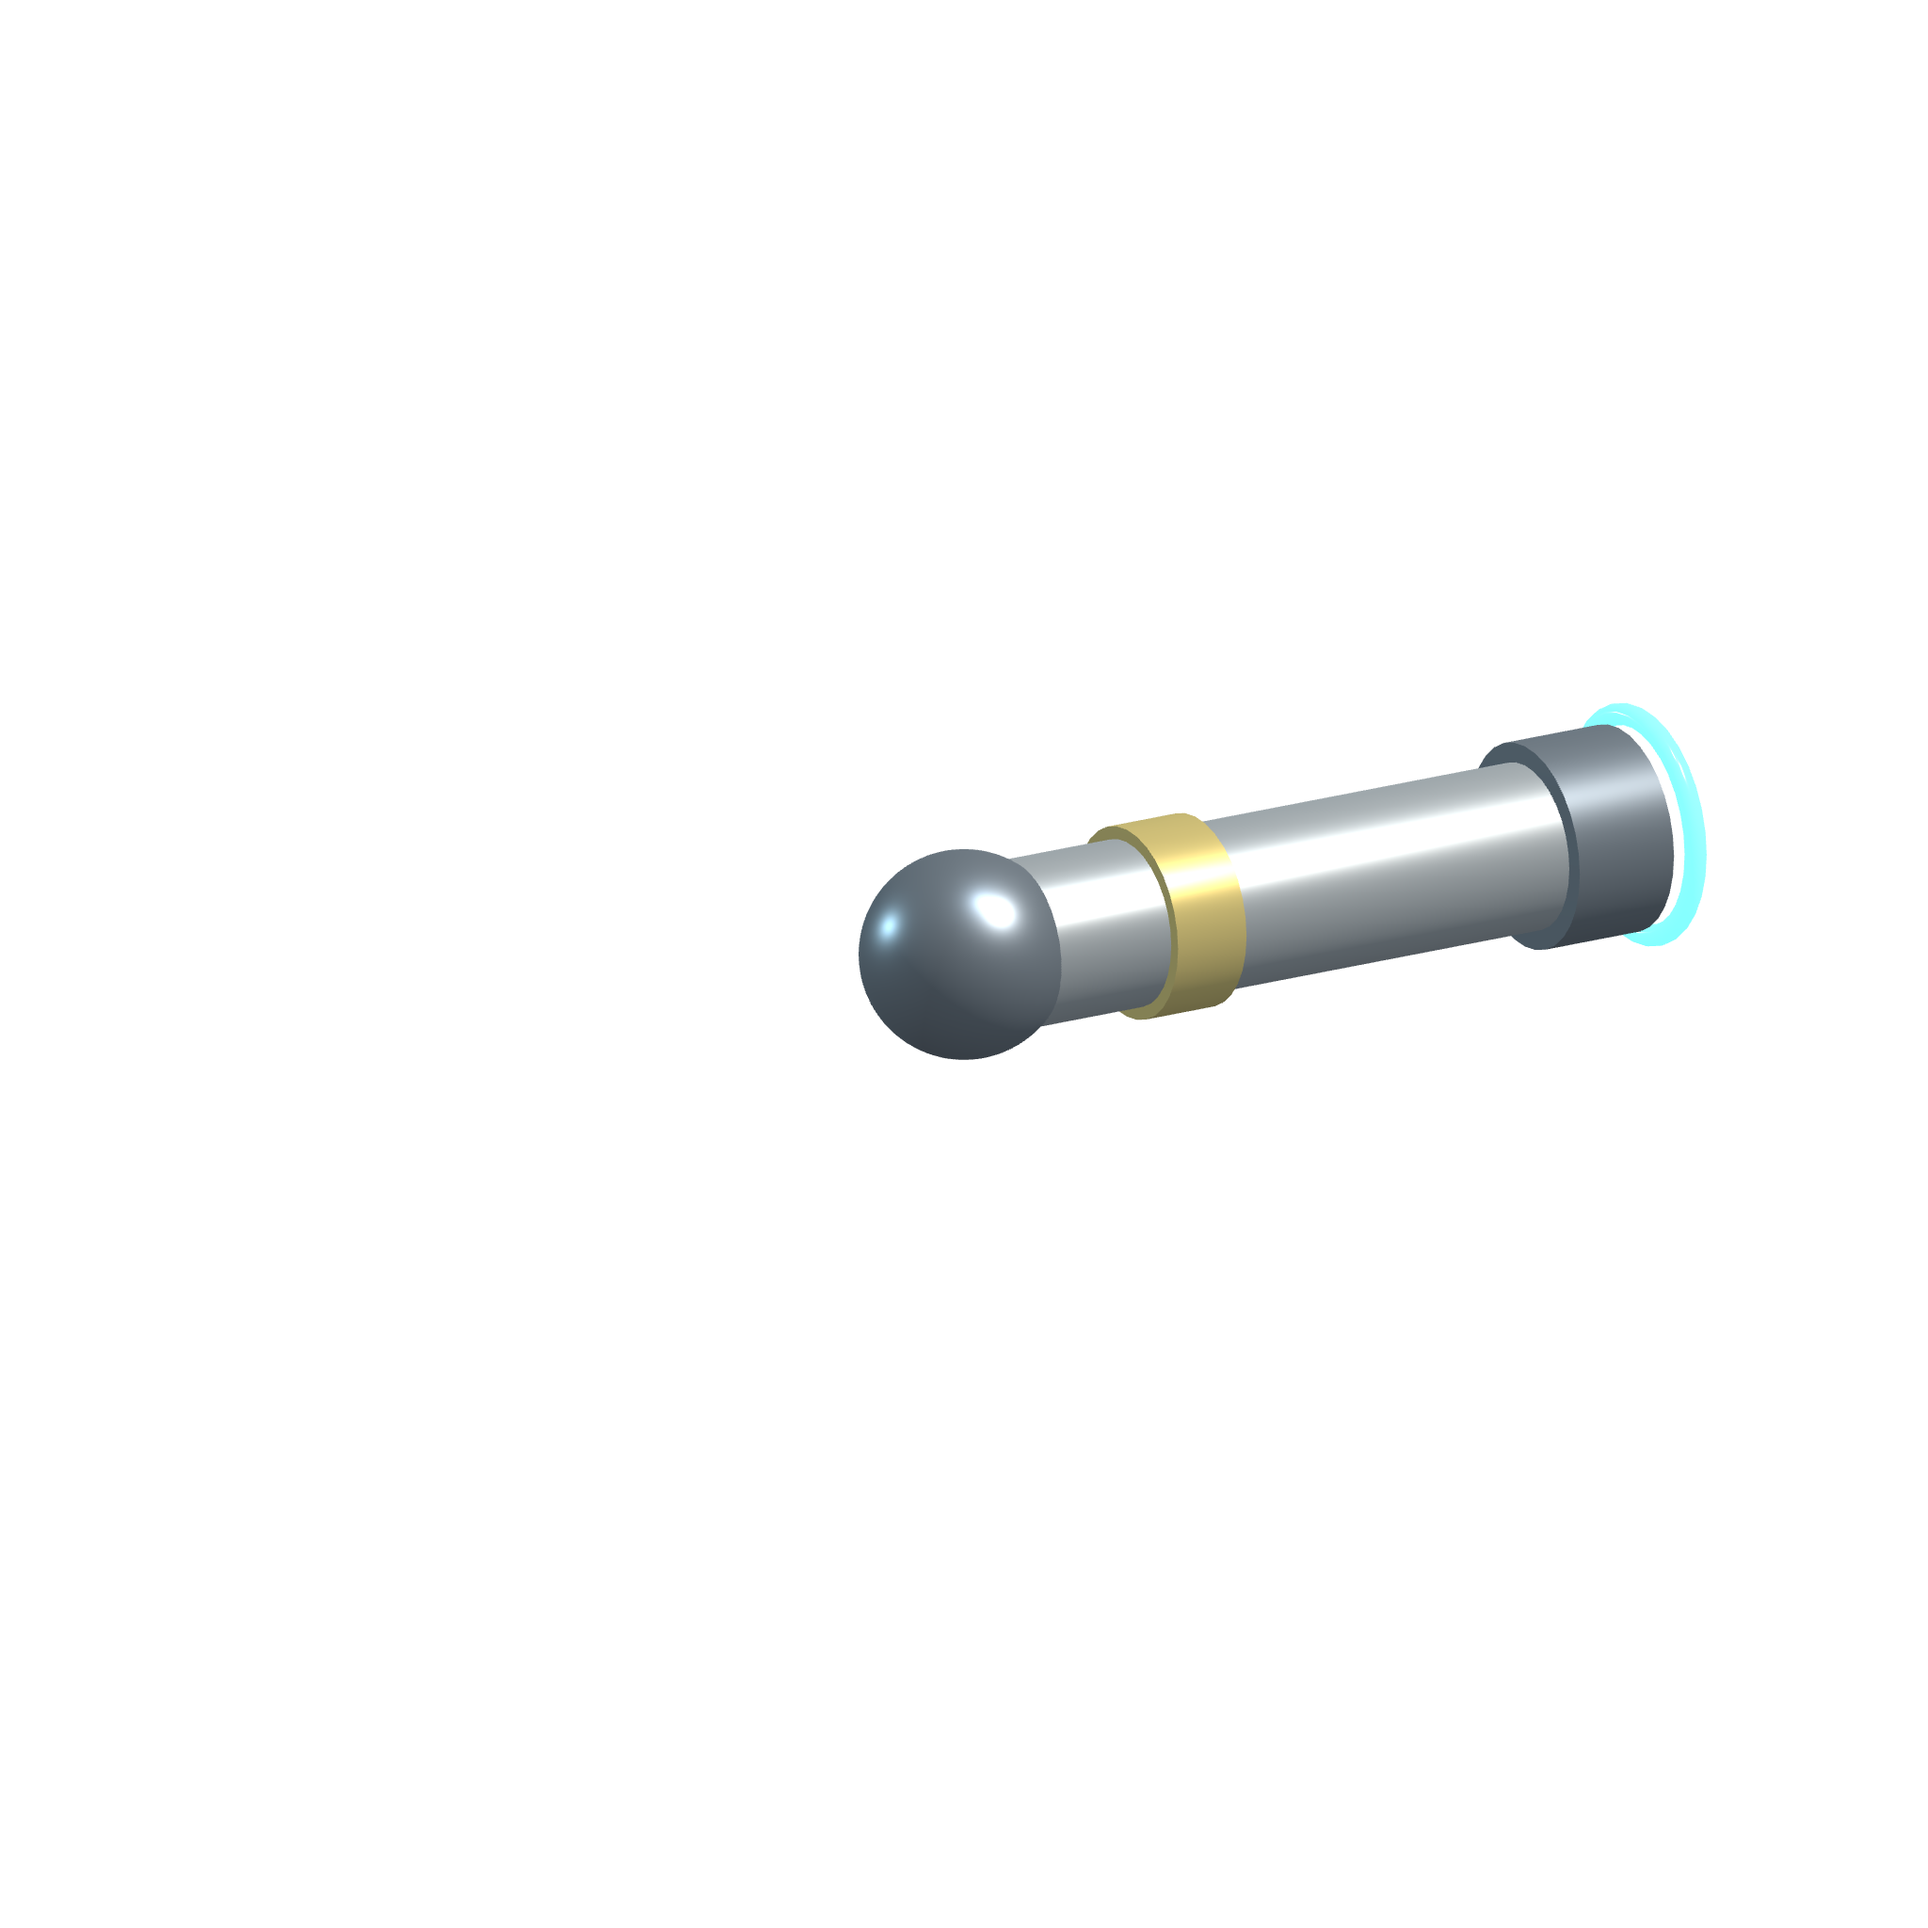
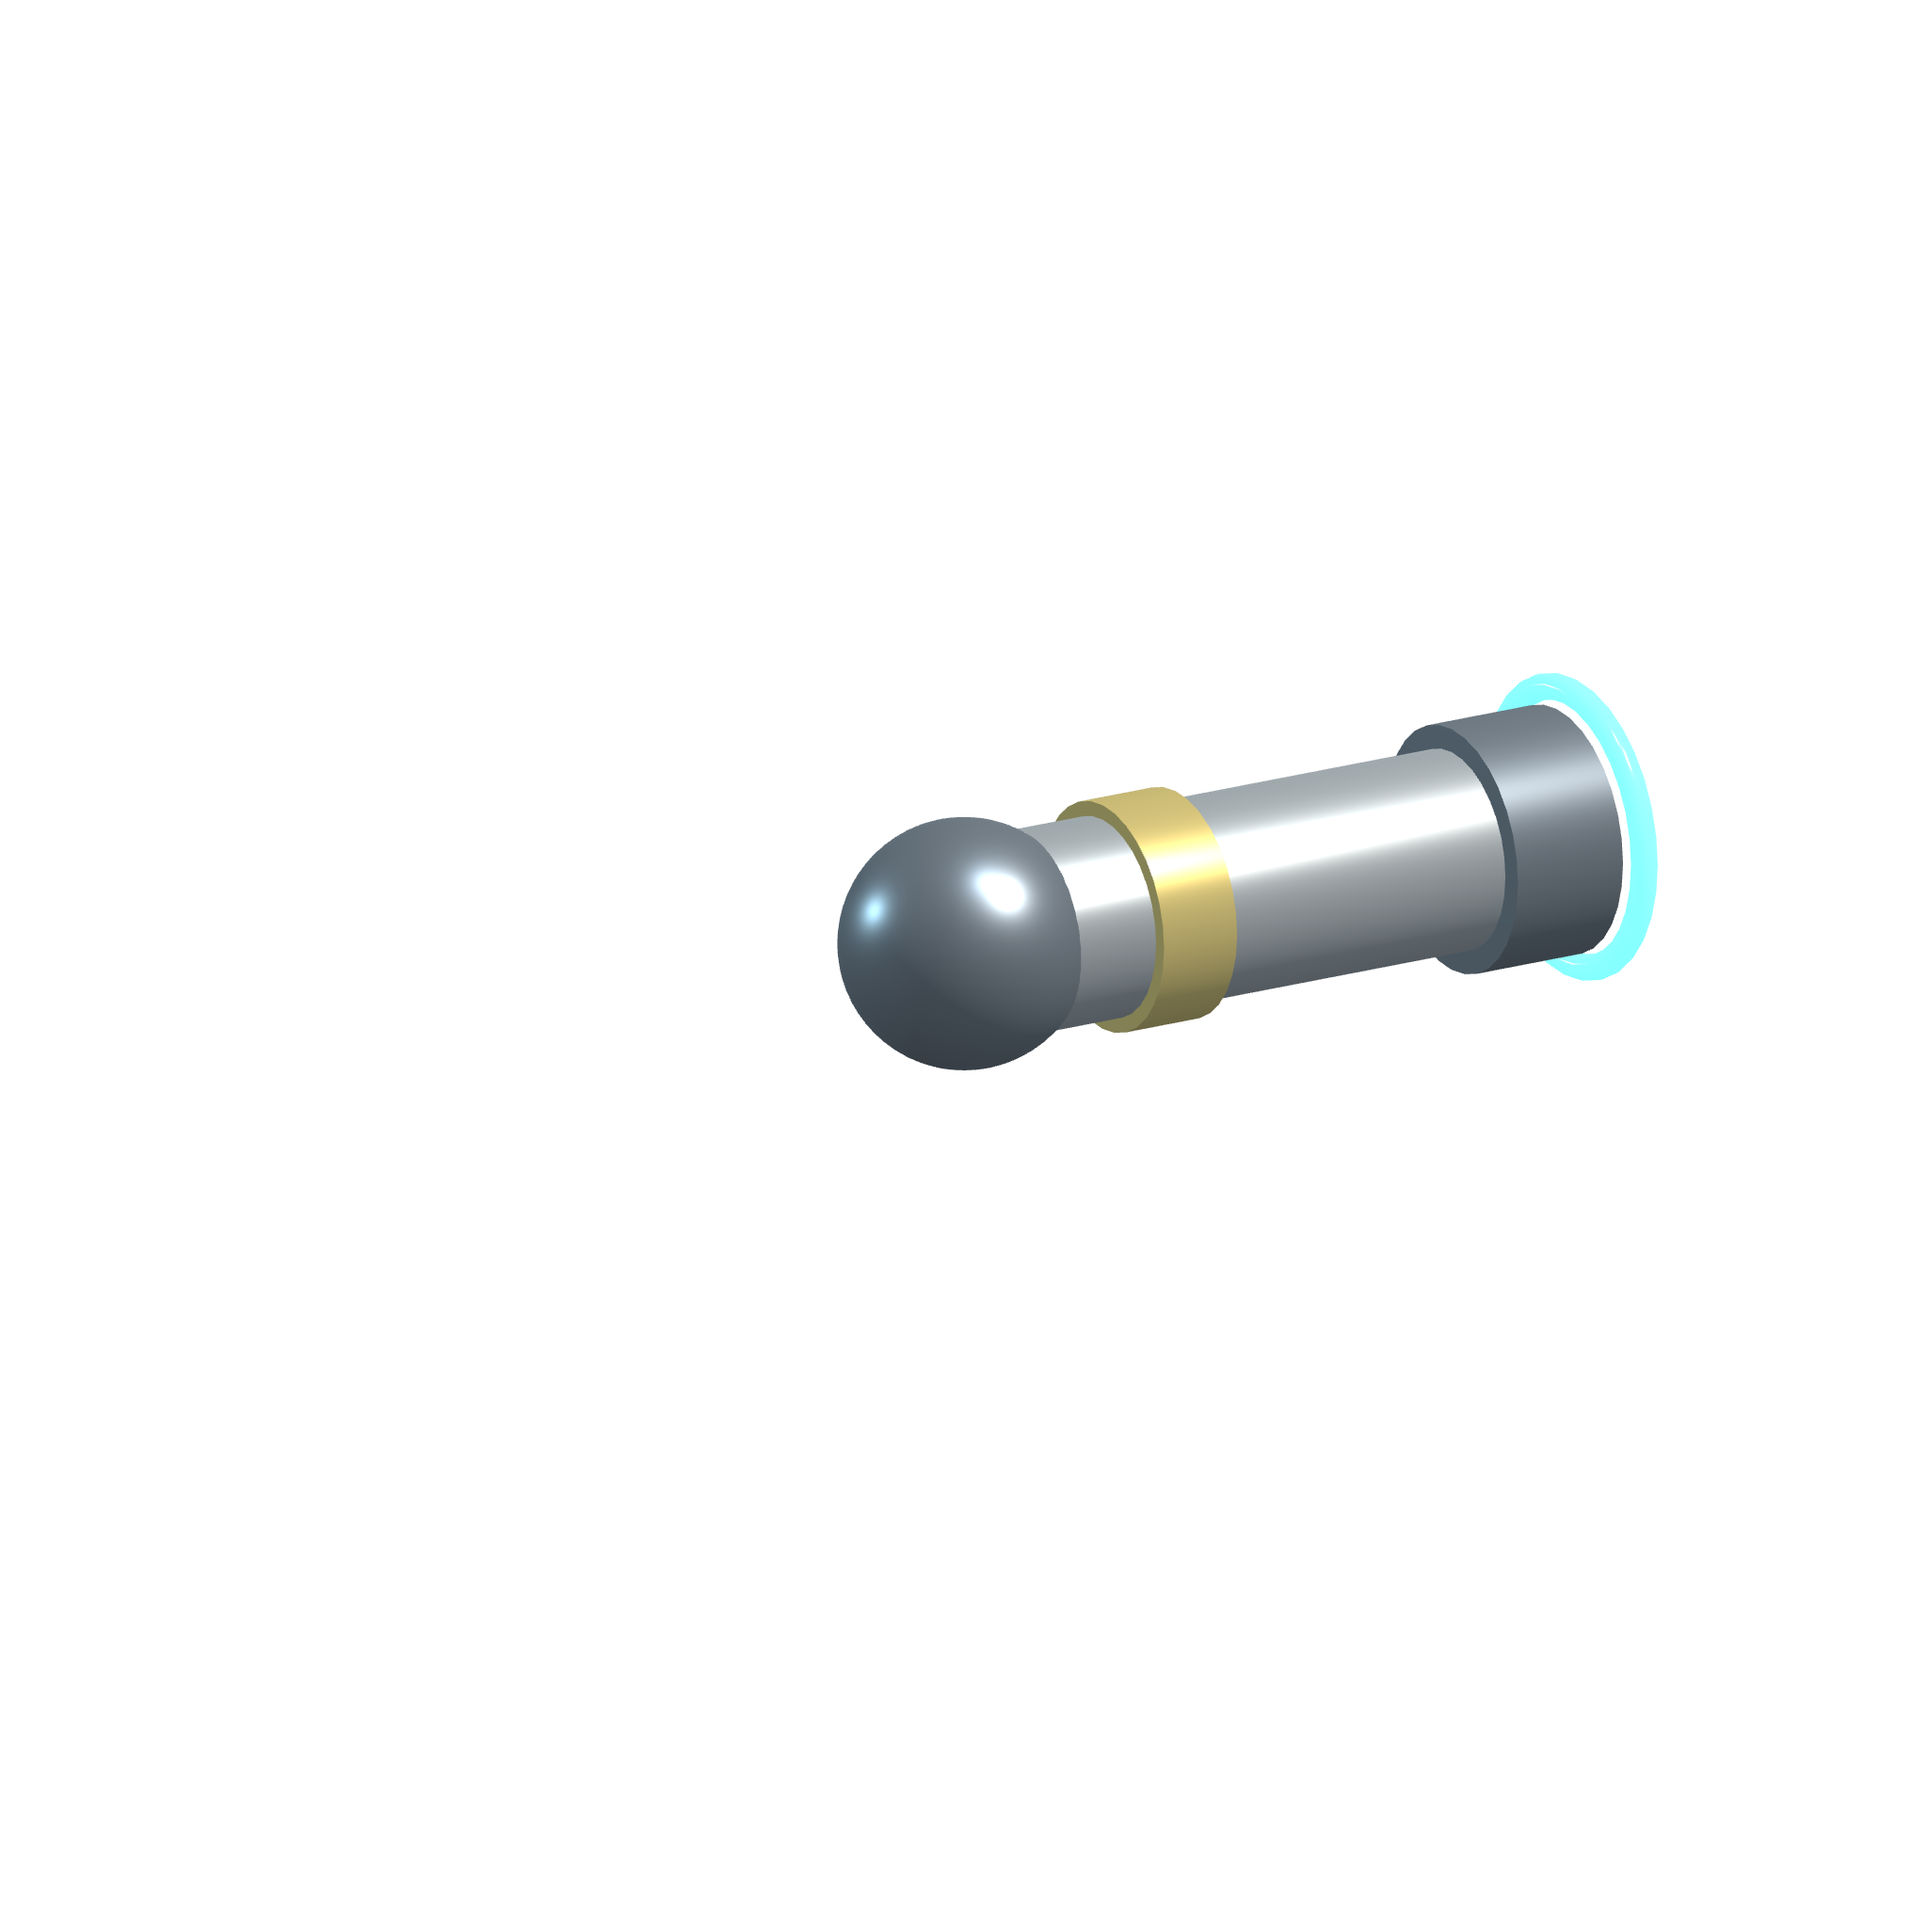
fix(turbo-pulse): donne du volume au canon 3D (modele et echelle)
Le premier rendu Babylon (socle/piston fins, echelle 0.125) lisait comme
timide une fois en jeu. Tube, socle, dome et moyeu sont nettement epaissis
dans le modele source (pas juste mis a l'echelle globalement), et
CANNON_IMAGE_SCALE est releve pour une vraie presence a l'ecran. Pivot et
angle de repos verifies inchanges (projection orthographique, invariante a
la position/l'echelle).

Changed region(s): [[0.4375, 0.3438, 0.9062, 0.5625]]

diff --git a/frontend/src/games/turbo-pulse/TurboPulseGame.ts b/frontend/src/games/turbo-pulse/TurboPulseGame.ts
@@ -47,20 +47,22 @@ const SHOT_SPEED = 620;
 // d'articulation du bras) tombe donc au même endroit dans les deux images,
 // mesuré une fois pour toutes sur les rendus exportés.
 const CANNON_PIVOT_ORIGIN_X = 0.5;
-const CANNON_PIVOT_ORIGIN_Y = 0.4951;
+const CANNON_PIVOT_ORIGIN_Y = 0.4956;
 // La caméra 3/4 fait reposer le tube à ~-10.9° (et non à l'horizontale) dans
 // l'image non tournée : sans cette correction, l'orientation visuelle du
 // canon dérive de la vraie trajectoire du tir (calculée séparément à partir
 // de aimAngle). Mesuré par projection de deux points le long de l'axe local
-// +X du bras (pivot et pivot+2 unités) avec la même caméra que l'export.
+// +X du bras (pivot et pivot+2 unités) avec la même caméra que l'export —
+// invariant à la position/l'échelle du pivot (projection orthographique),
+// donc inchangé par l'épaississement du modèle ci-dessous.
 const CANNON_ARM_RESTING_ANGLE = -0.1905;
-// Ramène l'encombrement des nouveaux visuels (images 2048×2048) à celui de
-// l'ancien canon vectoriel à l'échelle de référence (anneau ~100px, portée
-// du bras ~105px) : anneau du socle = 3.8 unités monde × (2048px / 9.6
-// unités de cadre) × ce facteur ≈ 101px. Exportée pour les tests, qui
-// vérifient que cannonBase/cannonArm.scaleX suit toujours metrics.scale — ce
-// facteur constant s'y multiplie désormais.
-export const CANNON_IMAGE_SCALE = 0.125;
+// Second passage "volume" : le premier rendu (silhouette fine, échelle
+// 0.125) lisait comme timide en jeu. Le modèle Babylon lui-même a été
+// épaissi (tube, socle, dôme, moyeu nettement plus larges) et cette échelle
+// relevée en plus, pour une vraie présence à l'écran — pas seulement un
+// agrandissement uniforme d'une silhouette fine. Exportée pour les tests,
+// qui vérifient que cannonBase/cannonArm.scaleX suit toujours metrics.scale.
+export const CANNON_IMAGE_SCALE = 0.145;
 
 export type TurboPulseStatus = "playing" | "clearing" | "level-complete" | "failed" | "mastered";
 
